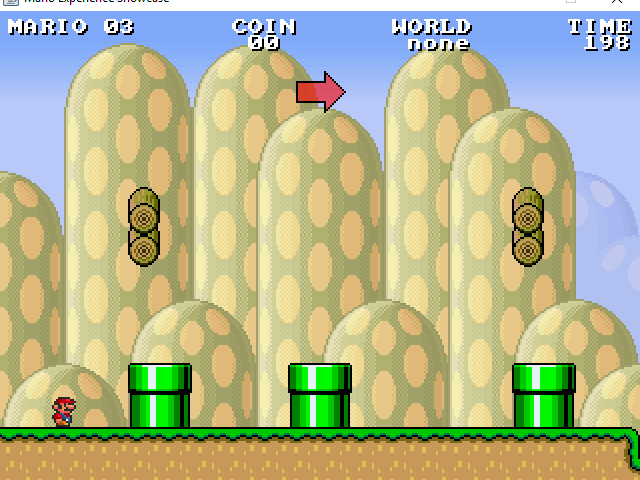
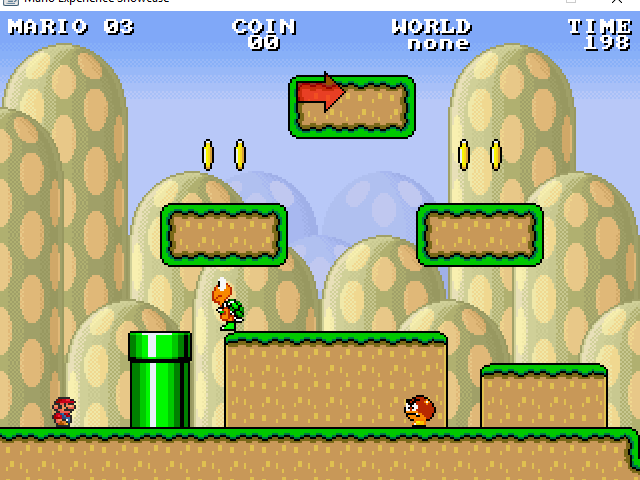
enabling generation of tiles

diff --git a/PruningMarioResearch/src/beauty/BeautyCustomizedLevel.java b/PruningMarioResearch/src/beauty/BeautyCustomizedLevel.java
@@ -462,20 +462,21 @@ public class BeautyCustomizedLevel extends Level{
 	        //System.out.println("Time B&B+heuristic + region ordering "+elapsedTime);
 	    	
 	    	
-	    	if(objGrapB3.bestSymmetryV<objGrapB5.bestSymmetryV)
-	    	{
-	    		double bestSYmmetry=objGrapB3.bestSymmetryV;
-	    		//System.out.println("bestSym "+bestSYmmetry);
-	    		BestGlobalstates=Beststates3;
-	    		
-	    	}
-	    	else
-	    	{
-	    		double bestSYmmetry=objGrapB5.bestSymmetryV;
-	    		//System.out.println("bestSym "+bestSYmmetry);
-	    		BestGlobalstates=Beststates5;
-	    	}
+//	    	if(objGrapB3.bestSymmetryV<objGrapB5.bestSymmetryV)
+//	    	{
+//	    		double bestSYmmetry=objGrapB3.bestSymmetryV;
+//	    		//System.out.println("bestSym "+bestSYmmetry);
+//	    		BestGlobalstates=Beststates3;
+//	    		
+//	    	}
+//	    	else
+//	    	{
+//	    		double bestSYmmetry=objGrapB5.bestSymmetryV;
+//	    		//System.out.println("bestSym "+bestSYmmetry);
+//	    		BestGlobalstates=Beststates5;
+//	    	}
 	    	
+	    	BestGlobalstates=Beststates6;
 	        
 	        
 	    	//**System.out.println("Simetry 0-> Brute-force search order "+objGrapB3a.bestSymmetryV);	
@@ -535,7 +536,7 @@ public class BeautyCustomizedLevel extends Level{
 	        
 	        
 	        //Here we will put the elements on the tile
-	        /*try {
+	        try {
 	        Level levelScreen=PaintElements(BestGlobalstates,this);
 	        Screen objScreen=new Screen();
 			objScreen.SaveScreen(levelScreen,odds,objElem);
@@ -545,7 +546,7 @@ public class BeautyCustomizedLevel extends Level{
 	        info = info.carregaInfoTela("infoTela");
 			info.setOutrasVariaveis(0, 0); // Salva outras informacoes da Tela
 			info.salvaInfoTela("infoTela", info);					
-			//copiador.copy("" + count, "Screens/");
+			copiador.copy("" + count, "Screens/");
 			
 	        }  catch (ClassNotFoundException e) {
 				// TODO Auto-generated catch block
@@ -553,7 +554,7 @@ public class BeautyCustomizedLevel extends Level{
 			} catch (IOException e) {
 				// TODO Auto-generated catch block
 				e.printStackTrace();
-			}*/
+			}
 		}
 	
 		private void CreatingBeautyContentTopK() { 

diff --git a/PruningMarioResearch/src/dk/itu/mario/engine/LoadScreenshotsForm.java b/PruningMarioResearch/src/dk/itu/mario/engine/LoadScreenshotsForm.java
@@ -26,8 +26,8 @@ public class LoadScreenshotsForm {
 	static ArrayList metrics;
 	public static void main(String[] args)
      {			
-		/*	
-			Dimension screenSize = Toolkit.getDefaultToolkit().getScreenSize();
+			
+			final Dimension screenSize = Toolkit.getDefaultToolkit().getScreenSize();
 			Timer timer = new Timer();
 			timer.schedule(new TimerTask() {
 			@Override
@@ -55,7 +55,7 @@ public class LoadScreenshotsForm {
 			       frame.setVisible(false);
 			       }			    
 		    	frame = new JFrame("Mario Experience Showcase");
-		    	mario = new MarioComponent(640, 480,true,nameFile,3,1);
+		    	mario = new MarioComponent(640, 480,true,nameFile,3,1,0,0,0);
 		    	frame.setContentPane(mario);
 		    	frame.setResizable(false);
 		        frame.setDefaultCloseOperation(JFrame.EXIT_ON_CLOSE);
@@ -68,7 +68,7 @@ public class LoadScreenshotsForm {
 		        mario.start();   
 		        counterNames++;
 			}
-        	}, 3000,3000); */
+        	}, 3000,3000); 
 			
 		/*---------------------to load------------------------*/
 

diff --git a/PruningMarioResearch/src/beauty/Screen.java b/PruningMarioResearch/src/beauty/Screen.java
@@ -25,8 +25,8 @@ public class Screen {
 		//width = 89;
 		//level = new Level(width, 15);
 		//level = createLevelTela(seed, difficulty, type);
-        //salvaTela(level, "tela");
-        //salvaInfoTela(level,odds,objElem);
+        salvaTela(level, "tela");
+        salvaInfoTela(level,odds,objElem);
         //fixWalls();
         
 	}
@@ -66,7 +66,7 @@ private void salvaInfoTela(Level level, int [] odds, ElementsToPlace objElem){
         for(int i = 0; i < level.tam_spritePrimitivo; i++)
         	info.addInimigo(level.spritePrimitivo[i]);        
         
-        /*try {
+        try {
 			info.salvaInfoTela("infoTela", info);
 		} catch (IOException e) {
 			// TODO Auto-generated catch block
@@ -74,7 +74,7 @@ private void salvaInfoTela(Level level, int [] odds, ElementsToPlace objElem){
 		} catch (ClassNotFoundException e) {
 			// TODO Auto-generated catch block
 			e.printStackTrace();
-		}*/
+		}
     	
     }
 }

diff --git a/PruningMarioResearch/src/dk/itu/mario/engine/GenerationForm.java b/PruningMarioResearch/src/dk/itu/mario/engine/GenerationForm.java
@@ -93,7 +93,7 @@ public class GenerationForm {
 		
 	  	/*---------------------to Generate screens------------------------*/
 		
-			int numElementsGlobalParamet=5; 
+			int numElementsGlobalParamet=6; 
 			double wParamether=3;
 			int methodSearch=3;
 			Random rand = new Random();
